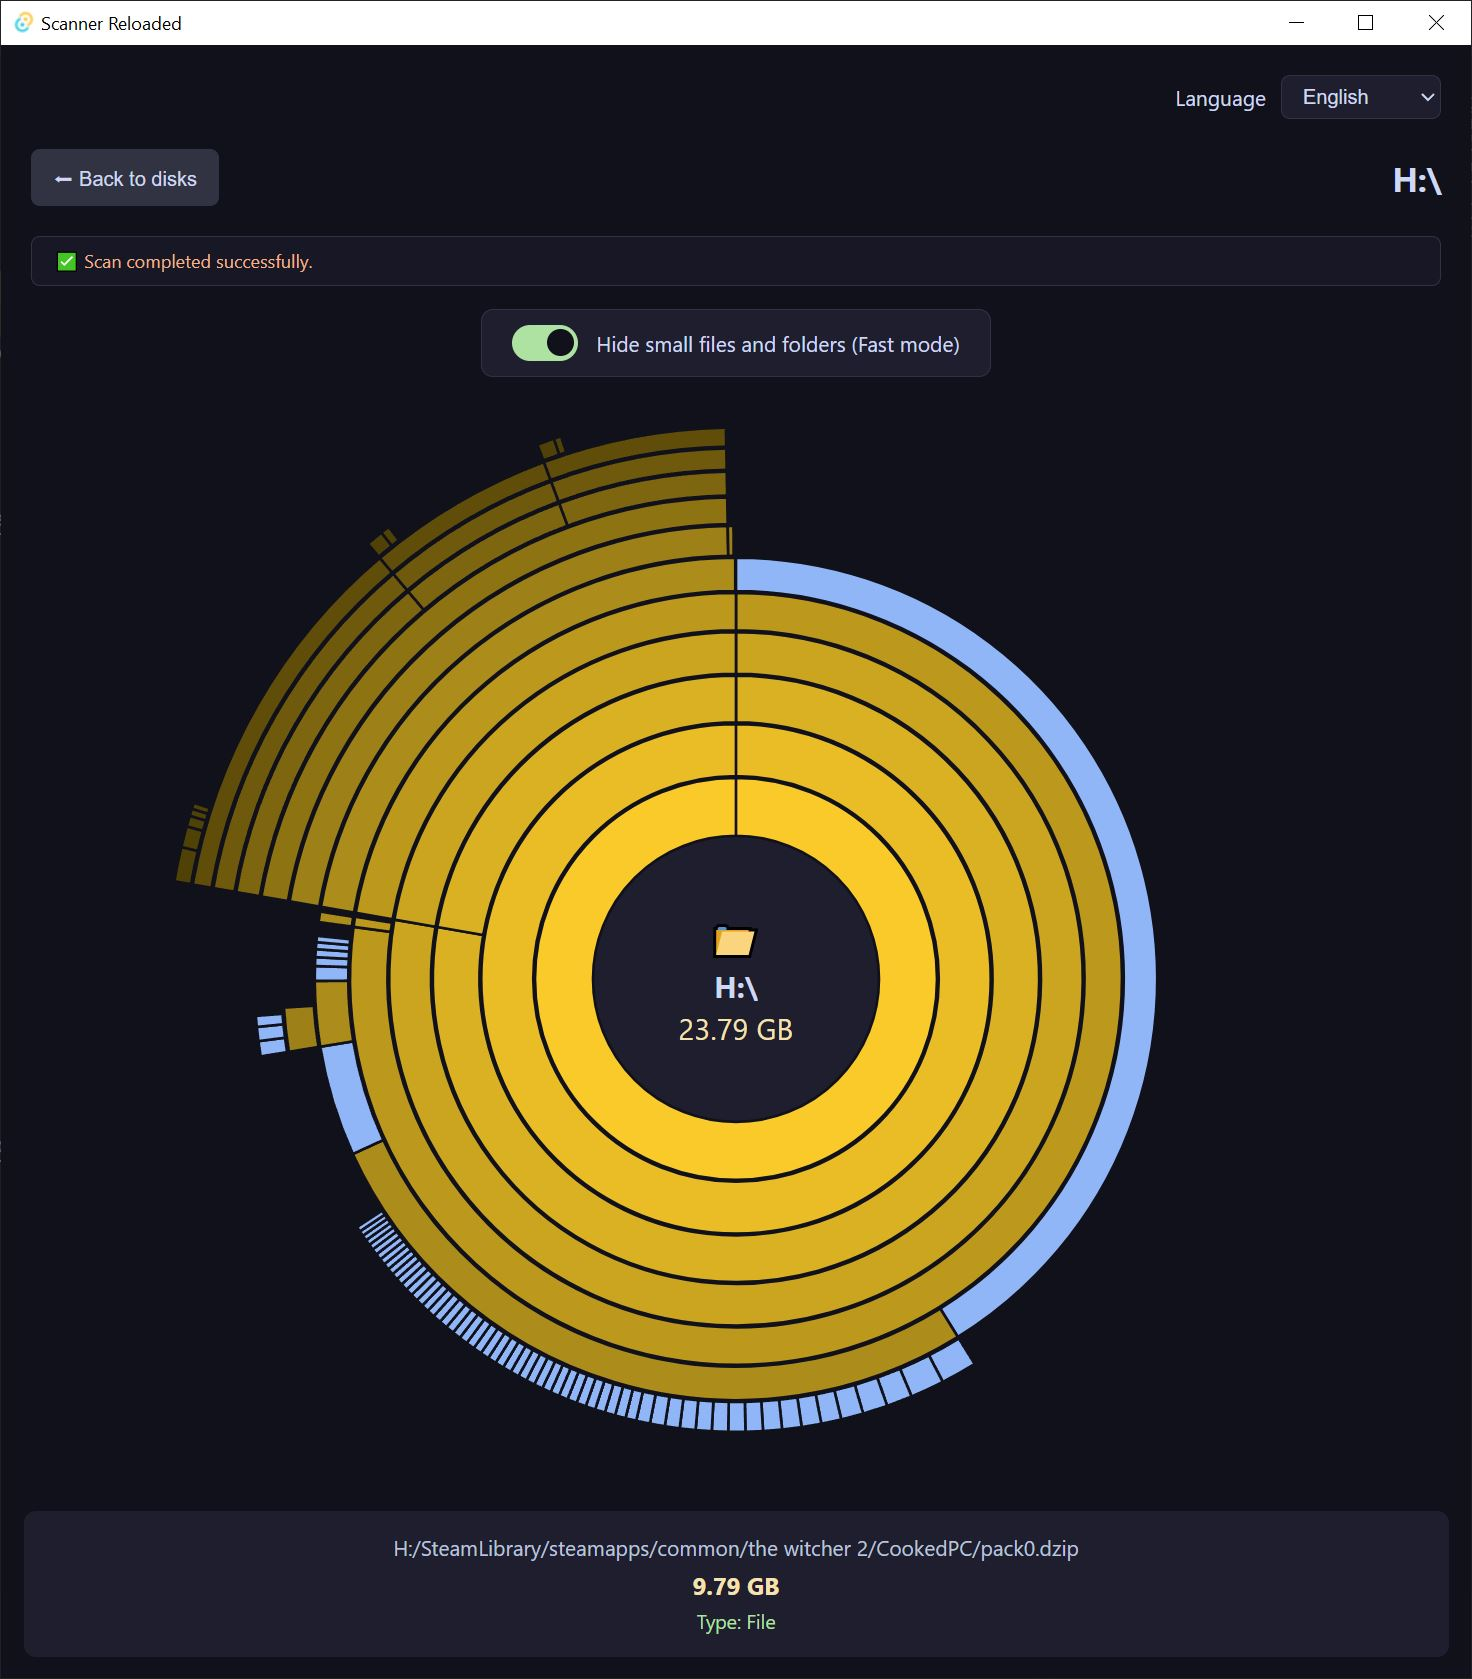
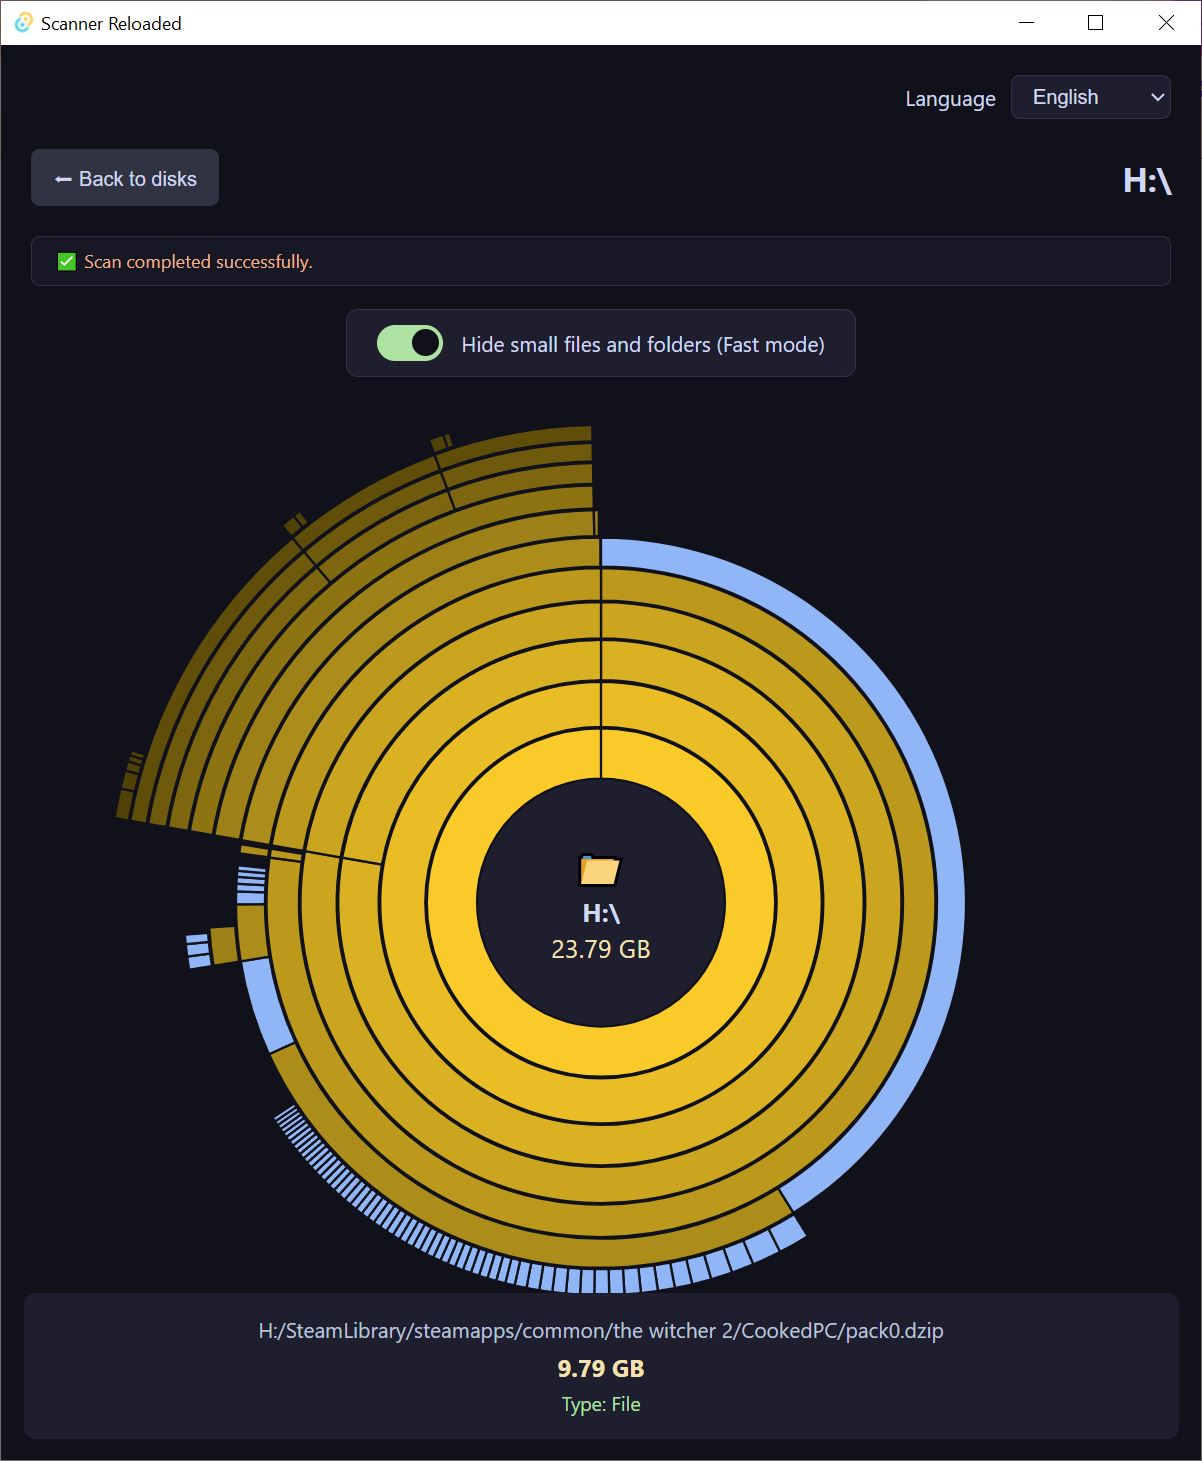
scanner screenshot

diff --git a/README.md b/README.md
@@ -6,7 +6,7 @@ A modern, fast, and cross-platform disk space visualizer built with Tauri, Rust,
 
 This project is a tribute to and a modern remake of the classic "Scanner" utility by Steffen Gerlach. The original tool provided a simple yet powerful sunburst chart to visualize disk usage, which was an inspiration for this application.
 
-![Original Scanner by Steffen Gerlach](http://www.steffengerlach.de/freeware/_scnthumb.gif)
+![Original Scanner by Steffen Gerlach](images/scnshot_scanner.gif)
 
 You can find more about the original author and his work here: [www.steffengerlach.de](http://www.steffengerlach.de/freeware/index.html)
 